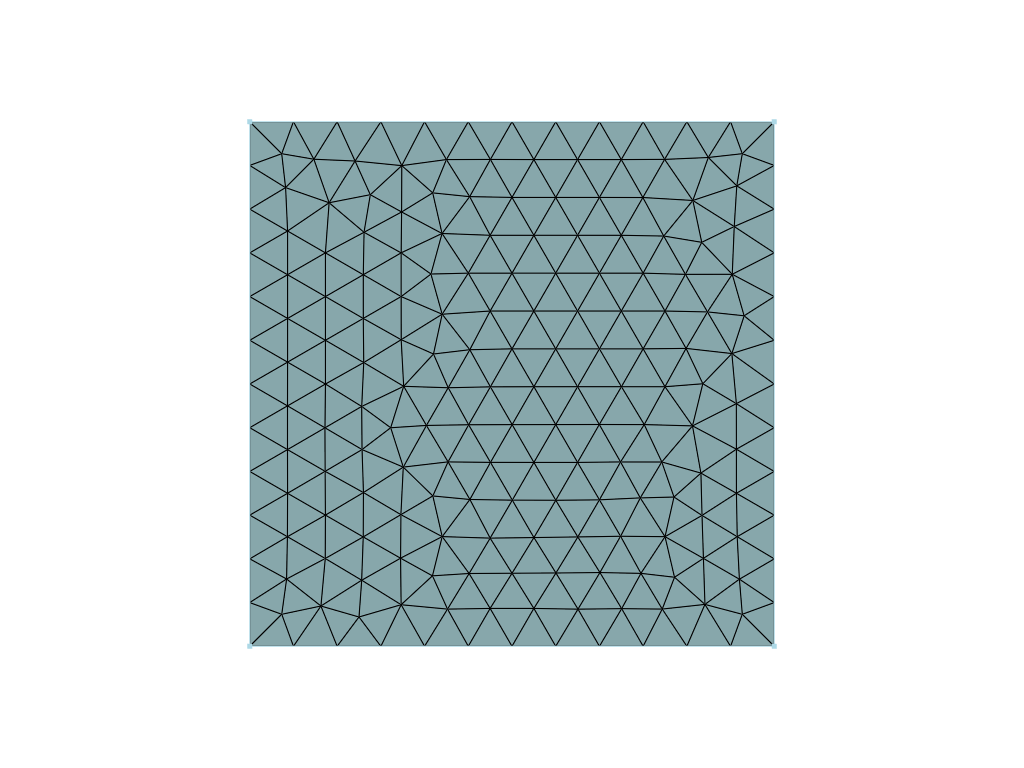
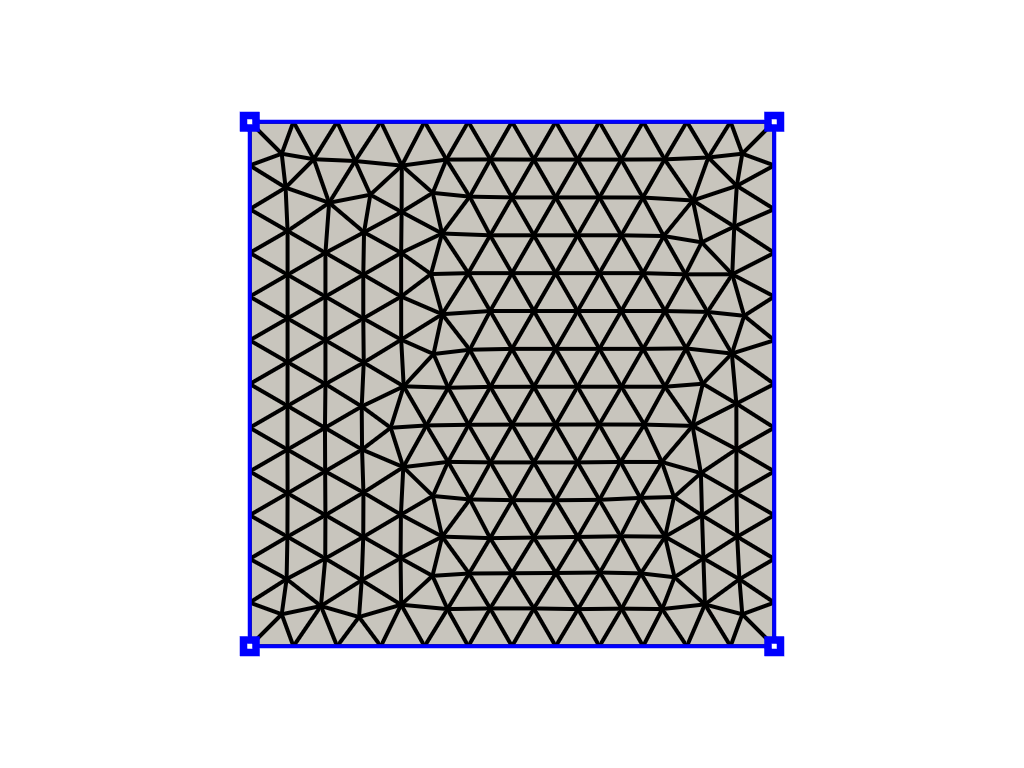
Improve design of mesh which is inspired by pygmsh (#16)

diff --git a/src/pvgmsh/__init__.py b/src/pvgmsh/__init__.py
@@ -67,7 +67,11 @@ def frontal_delaunay_2d(edge_source, mesh_size=1e-2):
       N Arrays:   0
 
     >>> plotter = pv.Plotter(off_screen=True)
-    >>> _ = plotter.add_mesh(tess, show_edges=True)
+    >>> _ = plotter.add_mesh(tess, show_edges=True, line_width=4, color="white")
+    >>> _ = plotter.add_mesh(squar, show_edges=True, line_width=4, color="blue")
+    >>> _ = plotter.add_points(
+    ...     squar.points, style="points", point_size=20, color="blue"
+    ... )
     >>> plotter.show(cpos="xy", screenshot="frontal_delaunay_2d_01.png")
     """
     gmsh.initialize()

diff --git a/README.rst b/README.rst
@@ -31,8 +31,12 @@ To visualize the model we can use PyVista.
 
 .. code-block:: python
 
-    >>> plotter = pv.Plotter()
-    >>> _ = plotter.add_mesh(tess, show_edges=True)
+    >>> plotter = pv.Plotter(off_screen=True)
+    >>> _ = plotter.add_mesh(tess, show_edges=True, line_width=4, color="white")
+    >>> _ = plotter.add_mesh(squar, show_edges=True, line_width=4, color="blue")
+    >>> _ = plotter.add_points(
+    ...     squar.points, style="points", point_size=20, color="blue"
+    ... )
     >>> plotter.show(cpos="xy")
 
 .. image:: https://github.com/pyvista/pyvista-gmsh/raw/main/frontal_delaunay_2d_01.png
